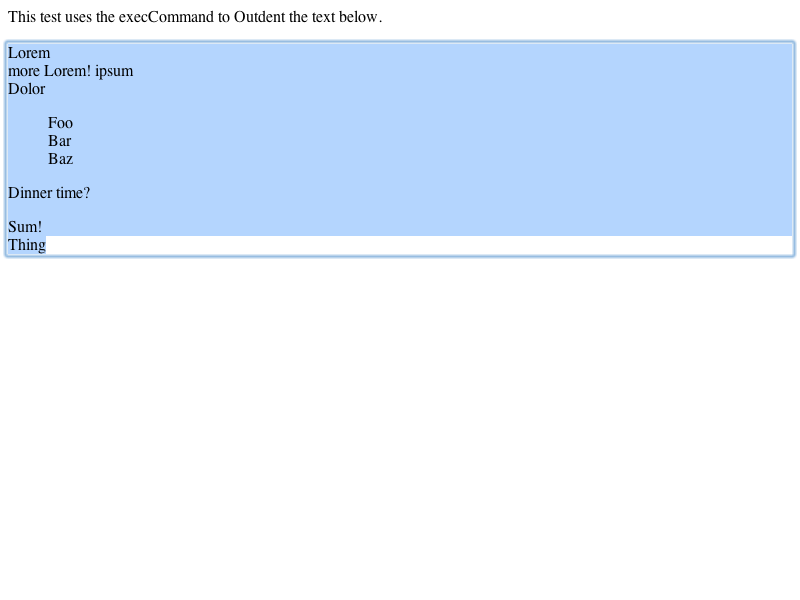
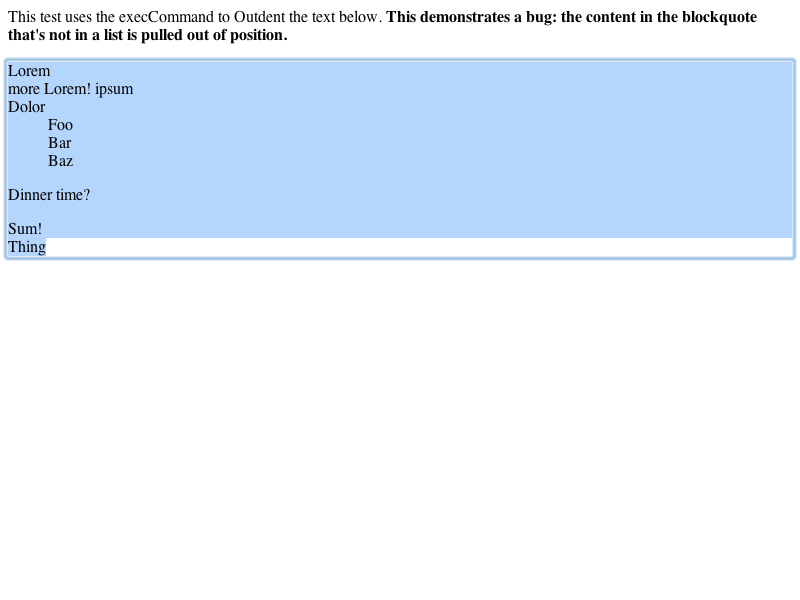
LayoutTests:
Reviewed by levi
        
        <rdar://problem/4447885>
        API: WebView should have a method something like incrementLeftMarginBy: or indentBy:

        Changed blockquotes in these tests to blockquote class="webkit-indent-blockquote".
        * editing/execCommand/indent-empty-root-expected.txt:
        * editing/execCommand/indent-selection-expected.checksum:
        * editing/execCommand/indent-selection-expected.png:
        * editing/execCommand/indent-selection-expected.txt:
        * editing/execCommand/indent-selection.html:
        * editing/execCommand/nsresponder-indent-expected.txt:
        * editing/execCommand/nsresponder-outdent.html:
        * editing/execCommand/outdent-selection-expected.checksum:
        * editing/execCommand/outdent-selection-expected.png:
        * editing/execCommand/outdent-selection-expected.txt:
        
        Ditto.  Added a FIXME:
        * editing/execCommand/outdent-selection.html:

WebCore:

        Reviewed by levi
        
        <rdar://problem/4447885>
        API: WebView should have a method something like incrementLeftMarginBy: or indentBy:
        
        Fixed indent/outdent to only increment the left margin, to match other browsers.
        Used blockquote class="webkit-indent-blockquote" to do this.  Mail can now
        implement indent/outdent by customizing the appearance of these blockquotes,
        instead of using a new API.
[…]

Changed region(s): [[0.0, 0.0, 1.0, 0.33], [0.0, 0.36, 1.0, 0.45]]

diff --git a/LayoutTests/editing/execCommand/outdent-selection.html b/LayoutTests/editing/execCommand/outdent-selection.html
@@ -1,11 +1,9 @@
-<div id="description">
-This test uses the execCommand to Outdent the text below.
-</div>
+<div id="description">This test uses the execCommand to Outdent the text below. <b>This demonstrates a bug: the content in the blockquote that's not in a list is pulled out of position.</b></div>
 <br>
 <div contenteditable="true">
 <span id="item1">Lorem</span><br>
 more Lorem!
-<blockquote>
+<blockquote class="webkit-indent-blockquote">
 ipsum<br>
 
 <ul>

diff --git a/LayoutTests/editing/execCommand/nsresponder-outdent.html b/LayoutTests/editing/execCommand/nsresponder-outdent.html
@@ -1,5 +1,5 @@
 <p>This tests the outdent: method.  You should see an undented 'foo' below.</p>
-<div id="div" contenteditable="true"><blockquote>foo</blockquote></div>
+<div id="div" contenteditable="true"><blockquote class="webkit-indent-blockquote">foo</blockquote></div>
 
 <script>
 var div = document.getElementById("div");

diff --git a/LayoutTests/editing/execCommand/indent-selection.html b/LayoutTests/editing/execCommand/indent-selection.html
@@ -5,7 +5,7 @@ This test uses the execCommand to indent the text below.
 <div contenteditable="true">
 <span id="item1">Lorem</span><br>
 more Lorem!
-<blockquote>
+<blockquote class="webkit-indent-blockquote">
 ipsum<br>
 
 <ul>

diff --git a/WebCore/css/html4.css b/WebCore/css/html4.css
@@ -570,4 +570,9 @@ frameset, frame {
     display: block
 }
 
+blockquote.webkit-indent-blockquote {
+    margin: 0 0 0 40px;
+}
+
+
 /* noscript is handled internally, as it depends on settings */

diff --git a/WebCore/editing/IndentOutdentCommand.cpp b/WebCore/editing/IndentOutdentCommand.cpp
@@ -40,22 +40,36 @@ namespace WebCore {
 
 using namespace HTMLNames;
 
+static String indentBlockquoteString()
+{
+    static String string = "webkit-indent-blockquote";
+    return string;
+}
+
+static PassRefPtr<Element> createIndentBlockquoteElement(Document* document)
+{
+    RefPtr<Element> indentBlockquoteElement = createElement(document, "blockquote");
+    indentBlockquoteElement->setAttribute(classAttr, indentBlockquoteString());
+    return indentBlockquoteElement.release();
+}
+
+static bool isIndentBlockquote(Node* node)
+{
+    if (!node || !node->hasTagName(blockquoteTag) || !node->isElementNode())
+        return false;
+
+    Element* elem = static_cast<Element*>(node);
+    return elem->getAttribute(classAttr) == indentBlockquoteString();
+}
+
+static bool isListOrIndentBlockquote(Node* node)
+{
+    return node && (node->hasTagName(ulTag) || node->hasTagName(olTag) || isIndentBlockquote(node));
+}
+
 IndentOutdentCommand::IndentOutdentCommand(Document* document, EIndentType typeOfAction, int marginInPixels)
     : CompositeEditCommand(document), m_typeOfAction(typeOfAction), m_marginInPixels(marginInPixels)
 {}
-
-static Node* enclosingListOrBlockquote(Node* node)
-{
-    if (!node)
-        return 0;
-    Node* root = (node->inDocument()) ? node->rootEditableElement() : highestAncestor(node);
-    ASSERT(root);
-    for (Node* n = node->parentNode(); n && (n == root || n->isDescendantOf(root)); n = n->parentNode())
-        if (n->hasTagName(ulTag) || n->hasTagName(olTag) || n->hasTagName(blockquoteTag))
-            return n;
-            
-    return 0;
-}
 
 // This function is a workaround for moveParagraph's tendency to strip blockquotes. It updates lastBlockquote to point to the
 // correct level for the current paragraph, and returns a pointer to a placeholder br where the insertion should be performed.
@@ -64,27 +78,27 @@ Node* IndentOutdentCommand::prepareBlockquoteLevelForInsertion(VisiblePosition& 
     int currentBlockquoteLevel = 0;
     int lastBlockquoteLevel = 0;
     Node* node = currentParagraph.deepEquivalent().node();
-    while ((node = enclosingNodeWithTag(node, blockquoteTag)))
+    while ((node = enclosingNodeOfType(node, &isIndentBlockquote)))
         currentBlockquoteLevel++;
     node = *lastBlockquote;
-    while ((node = enclosingNodeWithTag(node, blockquoteTag)))
+    while ((node = enclosingNodeOfType(node, &isIndentBlockquote)))
         lastBlockquoteLevel++;
     while (currentBlockquoteLevel > lastBlockquoteLevel) {
-        RefPtr<Node> newBlockquote = createElement(document(), "blockquote");
+        RefPtr<Node> newBlockquote = createIndentBlockquoteElement(document());
         appendNode(newBlockquote.get(), *lastBlockquote);
         *lastBlockquote = newBlockquote.get();
         lastBlockquoteLevel++;
     }
     while (currentBlockquoteLevel < lastBlockquoteLevel) {
-        *lastBlockquote = enclosingNodeWithTag(*lastBlockquote, blockquoteTag);
+        *lastBlockquote = enclosingNodeOfType(*lastBlockquote, &isIndentBlockquote);
         lastBlockquoteLevel--;
     }
     RefPtr<Node> placeholder = createBreakElement(document());
-    if ((*lastBlockquote)->firstChild() && !(*lastBlockquote)->lastChild()->hasTagName(brTag)) {
-        RefPtr<Node> collapsedPlaceholder = createBreakElement(document());
-        appendNode(collapsedPlaceholder.get(), (*lastBlockquote));
-    }
     appendNode(placeholder.get(), *lastBlockquote);
+    // Add another br before the placeholder if it collapsed.
+    VisiblePosition visiblePos(Position(placeholder.get(), 0));
+    if (!isStartOfParagraph(visiblePos))
+        insertNodeBefore(createBreakElement(document()).get(), placeholder.get());
     return placeholder.get();
 }
 
@@ -116,7 +130,7 @@ void IndentOutdentCommand::indentRegion()
     // and there's nothing to move.
     Node* startNode = startOfSelection.deepEquivalent().downstream().node();
     if (startNode == startNode->rootEditableElement()) {
-        RefPtr<Node> blockquote = createElement(document(), "blockquote");
+        RefPtr<Node> blockquote = createIndentBlockquoteElement(document());
         insertNodeAt(blockquote.get(), startNode, 0);
         RefPtr<Node> placeholder = createBreakElement(document());
         appendNode(placeholder.get(), blockquote.get());
@@ -158,7 +172,7 @@ void IndentOutdentCommand::indentRegion()
         else {
             // Create a new blockquote and insert it as a child of the root editable element. We accomplish
             // this by splitting all parents of the current paragraph up to that point.
-            RefPtr<Node> blockquote = createElement(document(), "blockquote");
+            RefPtr<Node> blockquote = createIndentBlockquoteElement(document());
             Node* startNode = startOfParagraph(endOfCurrentParagraph).deepEquivalent().node();
             Node* startOfNewBlock = splitTreeToNode(startNode, startNode->rootEditableElement());
             insertNodeBefore(blockquote.get(), startOfNewBlock);
@@ -175,25 +189,19 @@ void IndentOutdentCommand::outdentParagraph()
     VisiblePosition visibleStartOfParagraph = startOfParagraph(endingSelection().visibleStart());
     VisiblePosition visibleEndOfParagraph = endOfParagraph(visibleStartOfParagraph);
 
-    Node* enclosingNode = enclosingListOrBlockquote(visibleStartOfParagraph.deepEquivalent().node());
+    Node* enclosingNode = enclosingNodeOfType(visibleStartOfParagraph.deepEquivalent().node(), &isListOrIndentBlockquote);
     if (!enclosingNode)
         return;
 
-    // Handle the list case
-    bool inList = false;
-    InsertListCommand::Type typeOfList;
+    // Use InsertListCommand to remove the selection from the list
     if (enclosingNode->hasTagName(olTag)) {
-        inList = true;
-        typeOfList = InsertListCommand::OrderedList;
+        applyCommandToComposite(new InsertListCommand(document(), InsertListCommand::OrderedList, ""));
+        return;        
     } else if (enclosingNode->hasTagName(ulTag)) {
-        inList = true;
-        typeOfList = InsertListCommand::UnorderedList;
-    }
-    if (inList) {
-        // Use InsertListCommand to remove the selection from the list
-        applyCommandToComposite(new InsertListCommand(document(), typeOfList, ""));
+        applyCommandToComposite(new InsertListCommand(document(), InsertListCommand::UnorderedList, ""));
         return;
     }
+    
     // The selection is inside a blockquote
     VisiblePosition positionInEnclosingBlock = VisiblePosition(Position(enclosingNode, 0));
     VisiblePosition startOfEnclosingBlock = startOfBlock(positionInEnclosingBlock);

diff --git a/WebCore/editing/htmlediting.cpp b/WebCore/editing/htmlediting.cpp
@@ -549,6 +549,22 @@ Node* enclosingNodeWithTag(Node* node, const QualifiedName& tagName)
     return 0;
 }
 
+Node* enclosingNodeOfType(Node* node, bool (*nodeIsOfType)(Node*))
+{
+    if (!node)
+        return 0;
+        
+    Node* root = highestEditableRoot(Position(node, 0));
+    if (!root)
+        root = highestAncestor(node);
+        
+    for (Node* n = node->parentNode(); n && (n == root || n->isDescendantOf(root)); n = n->parentNode())
+        if ((*nodeIsOfType)(n))
+            return n;
+            
+    return 0;
+}
+
 Node* enclosingTableCell(Node* node)
 {
     if (!node)

diff --git a/WebCore/editing/htmlediting.h b/WebCore/editing/htmlediting.h
@@ -103,6 +103,7 @@ Position positionAfterContainingSpecialElement(const Position&, Node** containin
 Position positionOutsideContainingSpecialElement(const Position&, Node** containingSpecialElement=0);
 
 Node* enclosingNodeWithTag(Node*, const QualifiedName&);
+Node* enclosingNodeOfType(Node*, bool (*nodeIsOfType)(Node*));
 Node* enclosingTableCell(Node*);
 Node* enclosingEmptyListItem(const VisiblePosition&);
 bool isListElement(Node*);
